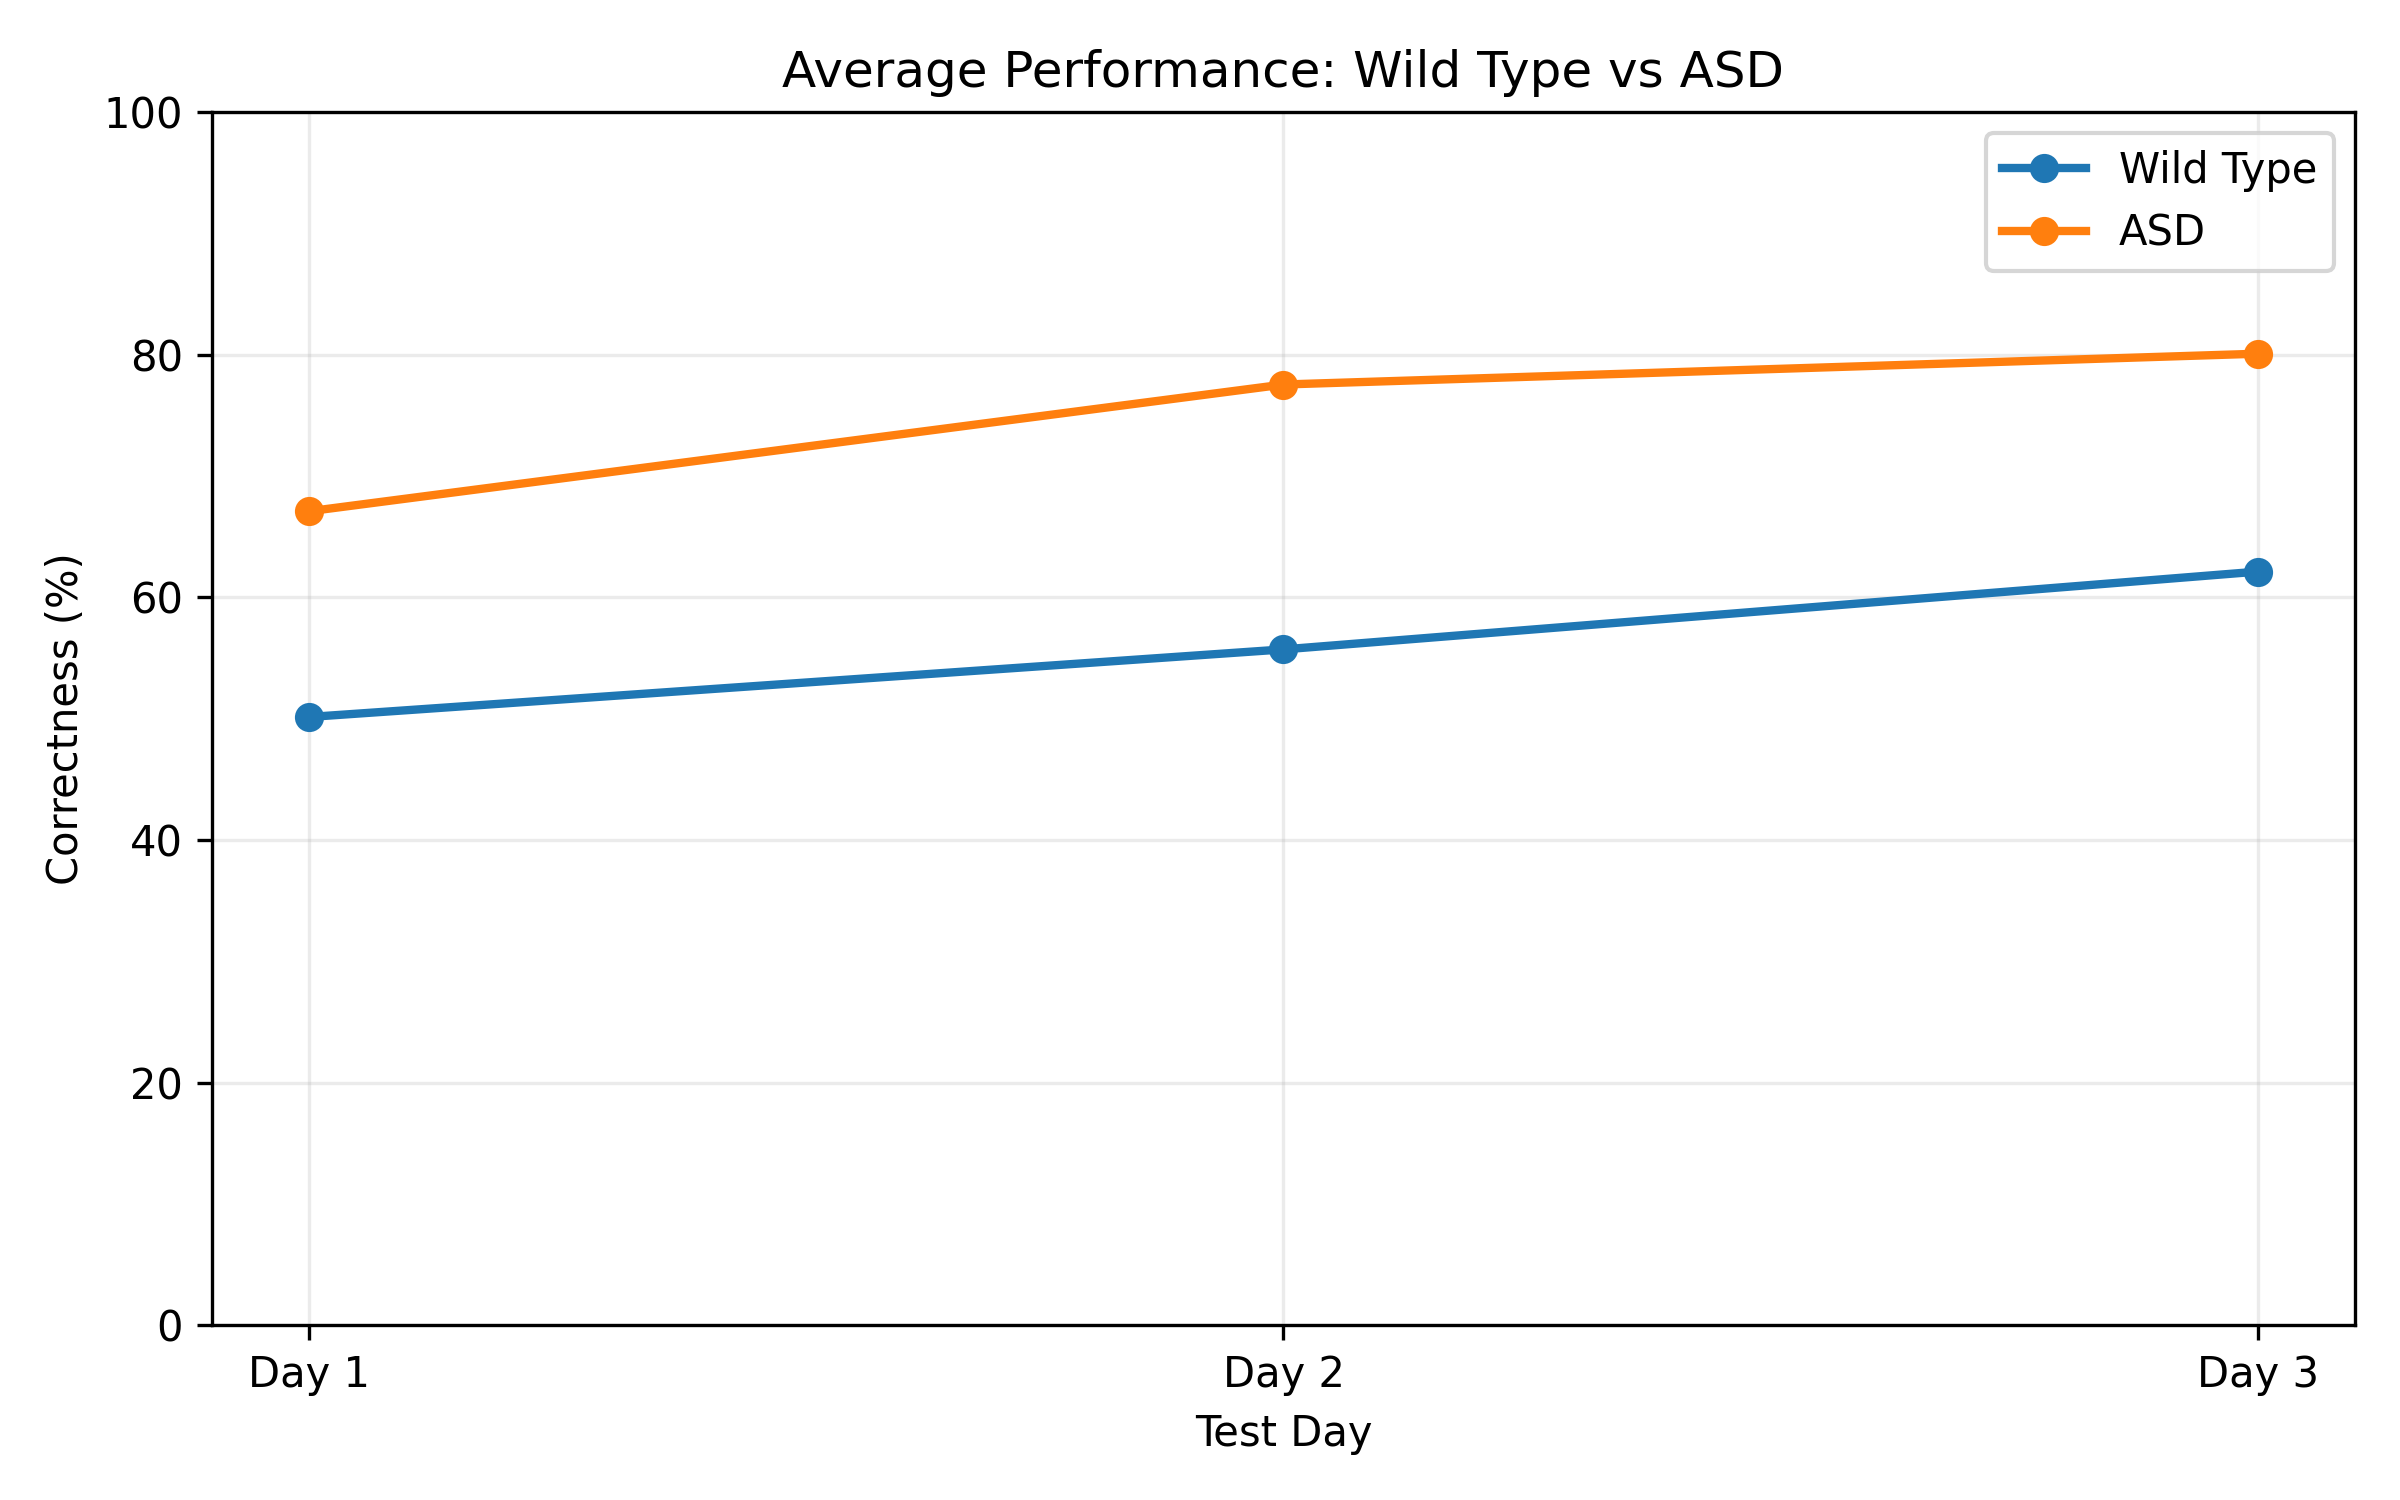
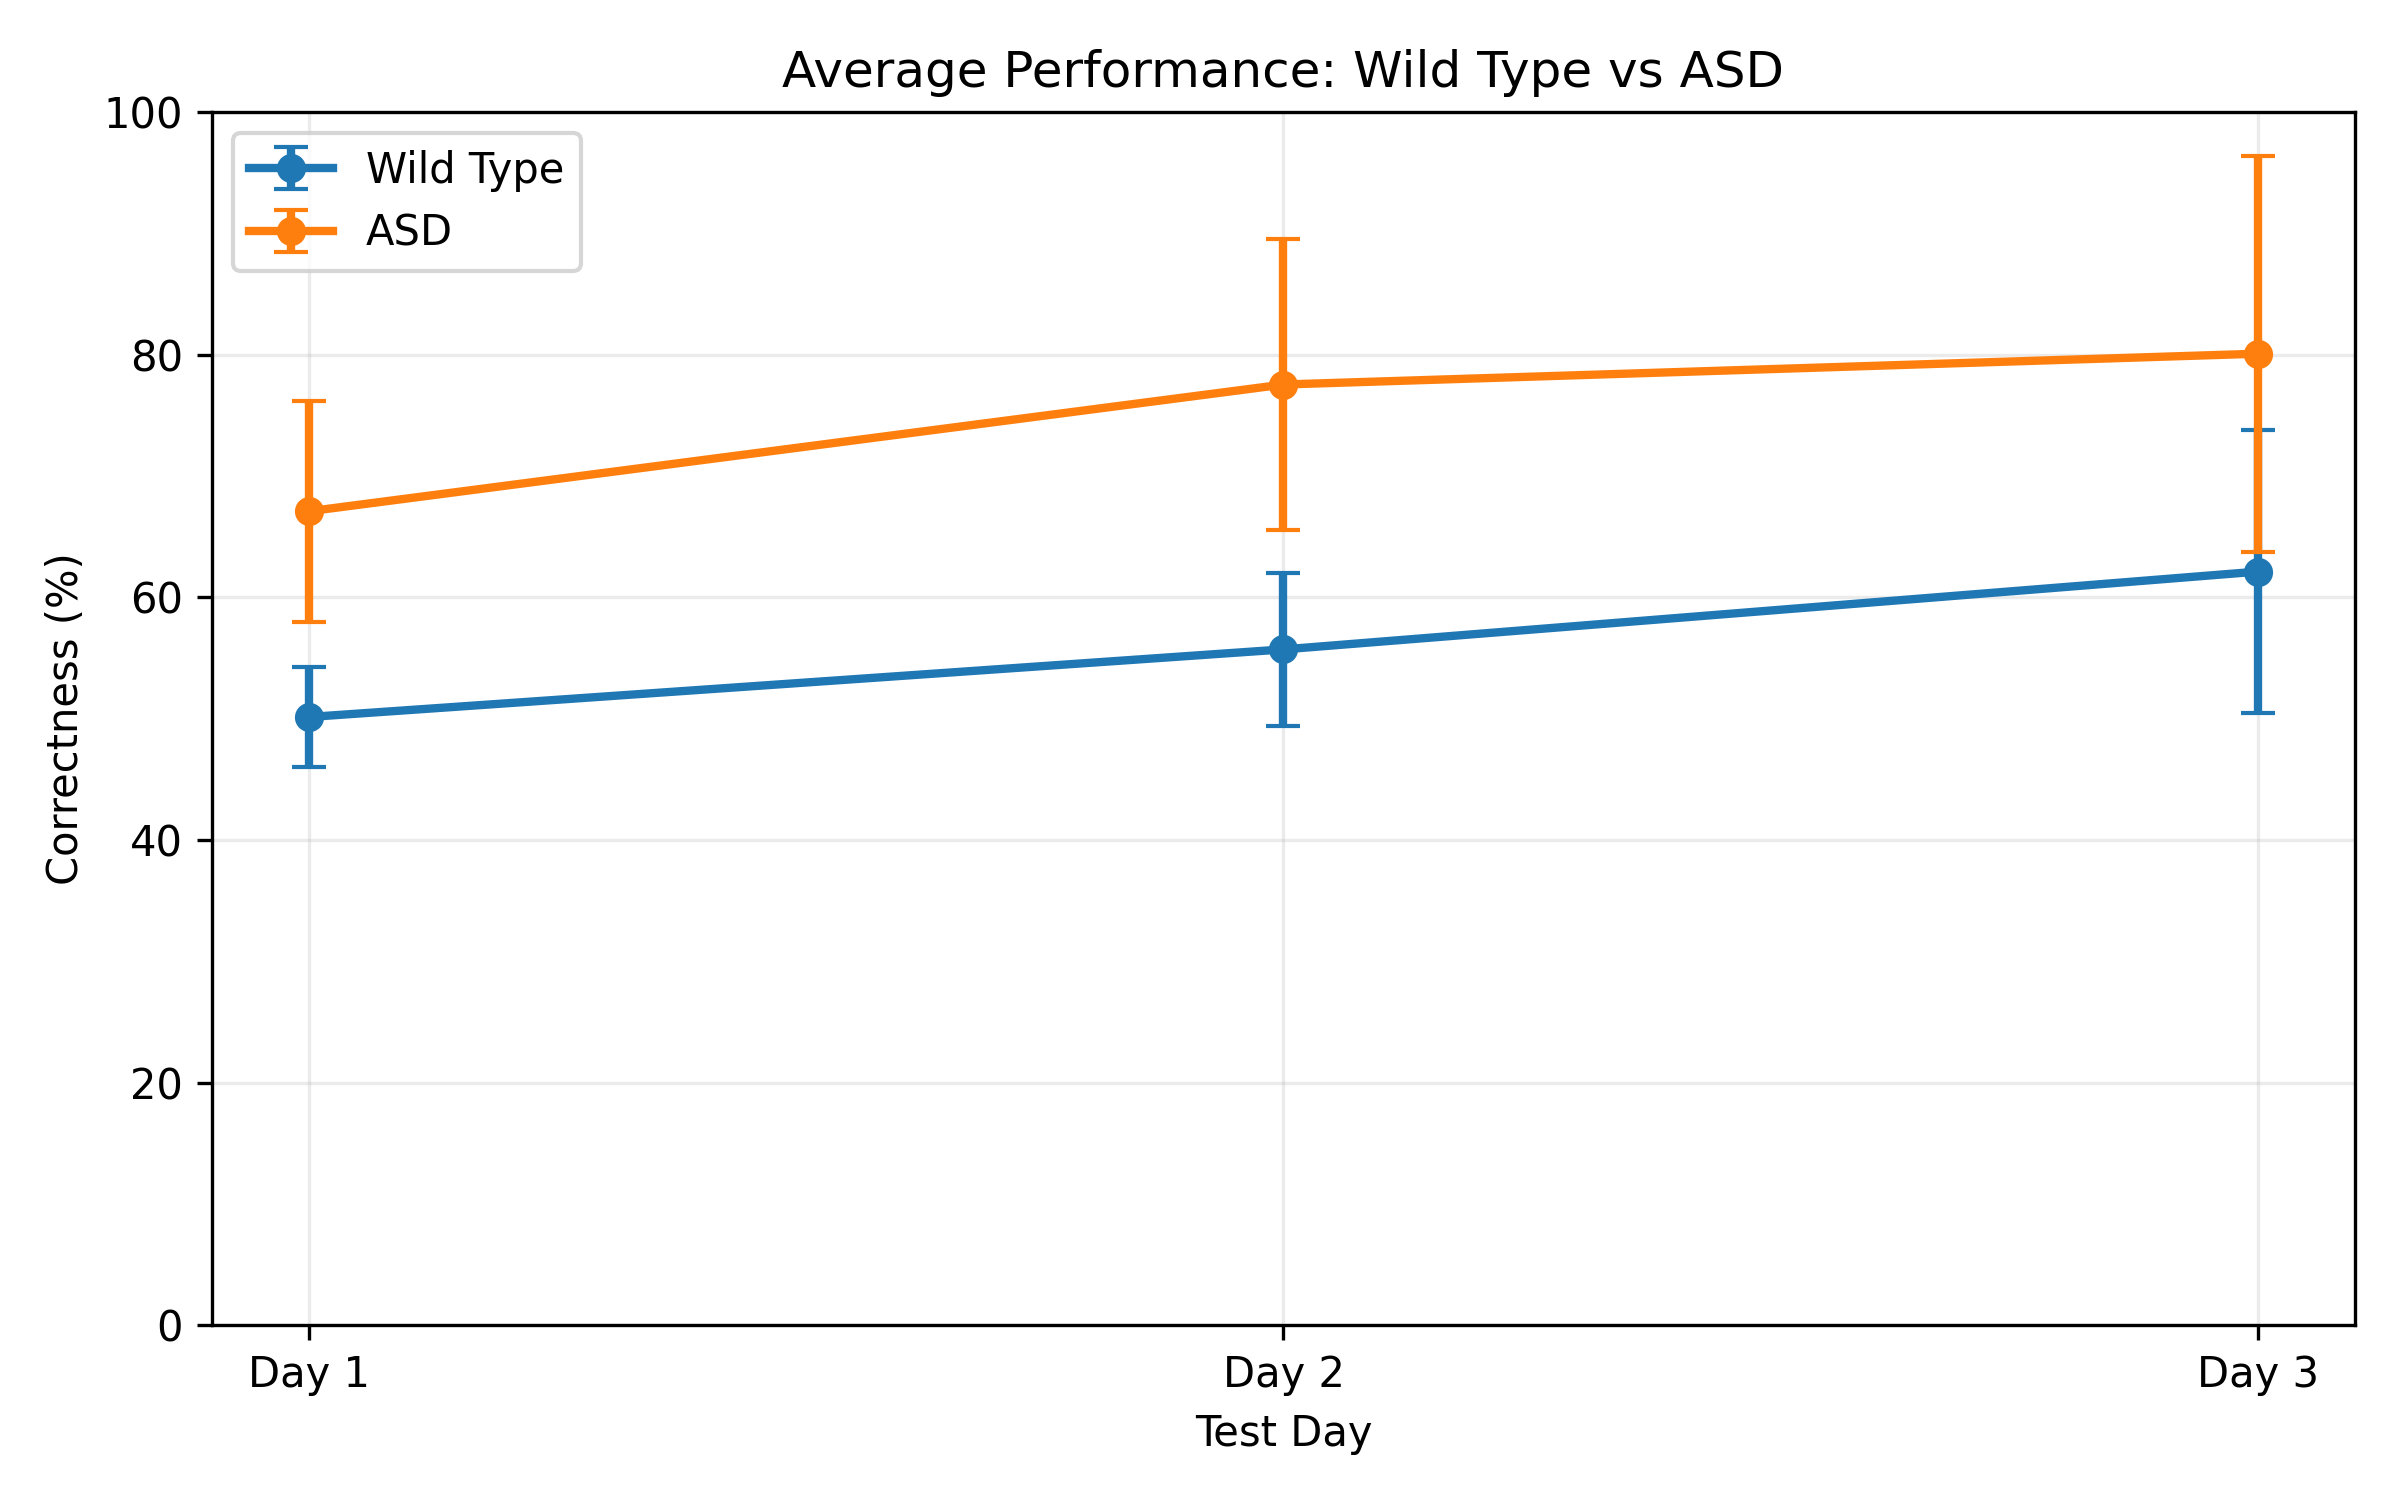
ok
error_bar

diff --git a/ASD_behavior.py b/ASD_behavior.py
@@ -57,7 +57,9 @@ class ASD_behavior:
         performance_df = pd.DataFrame(records)
         summary = (
             performance_df.groupby(["group", "day"], as_index=False)["performance"]
-            .mean()
+            .agg(["mean", "std"])
+            .reset_index()
+            .rename(columns={"mean": "performance_mean", "std": "performance_std"})
             .sort_values(["group", "day"])
         )
 
@@ -65,13 +67,29 @@ class ASD_behavior:
         wild_type = (
             summary[summary["group"] == "Wild Type"]
             .set_index("day")
-            .reindex(days)["performance"]
+            .reindex(days)
         )
-        asd = summary[summary["group"] == "ASD"].set_index("day").reindex(days)["performance"]
+        asd = summary[summary["group"] == "ASD"].set_index("day").reindex(days)
 
         plt.figure(figsize=(8, 5))
-        plt.plot(days, wild_type.values, marker="o", linewidth=2, label="Wild Type")
-        plt.plot(days, asd.values, marker="o", linewidth=2, label="ASD")
+        plt.errorbar(
+            days,
+            wild_type["performance_mean"].values,
+            yerr=wild_type["performance_std"].fillna(0).values,
+            marker="o",
+            linewidth=2,
+            capsize=4,
+            label="Wild Type",
+        )
+        plt.errorbar(
+            days,
+            asd["performance_mean"].values,
+            yerr=asd["performance_std"].fillna(0).values,
+            marker="o",
+            linewidth=2,
+            capsize=4,
+            label="ASD",
+        )
         plt.xticks(days, ["Day 1", "Day 2", "Day 3"])
         plt.ylabel("Correctness (%)")
         plt.xlabel("Test Day")
